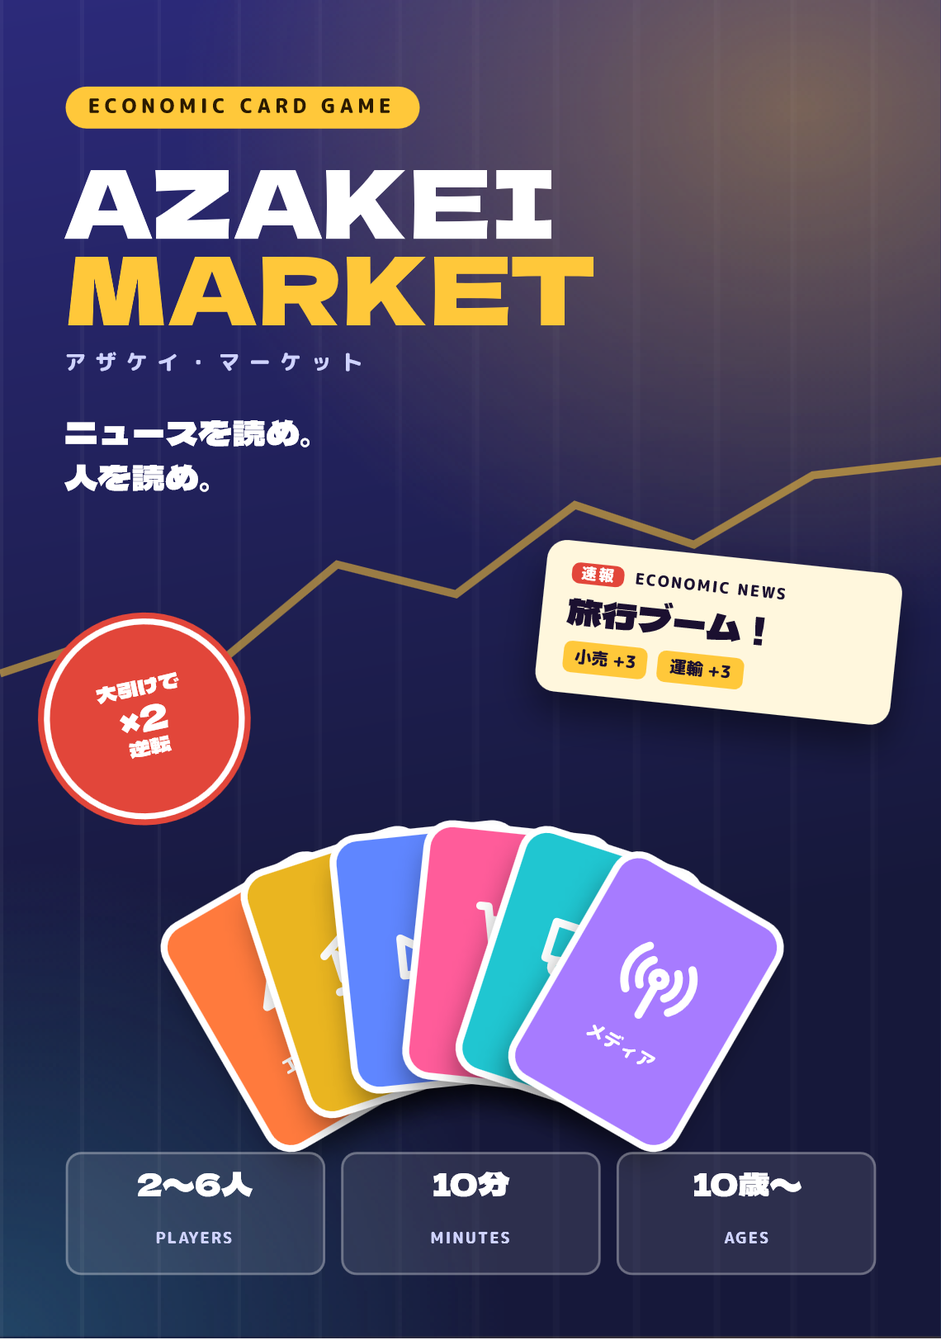
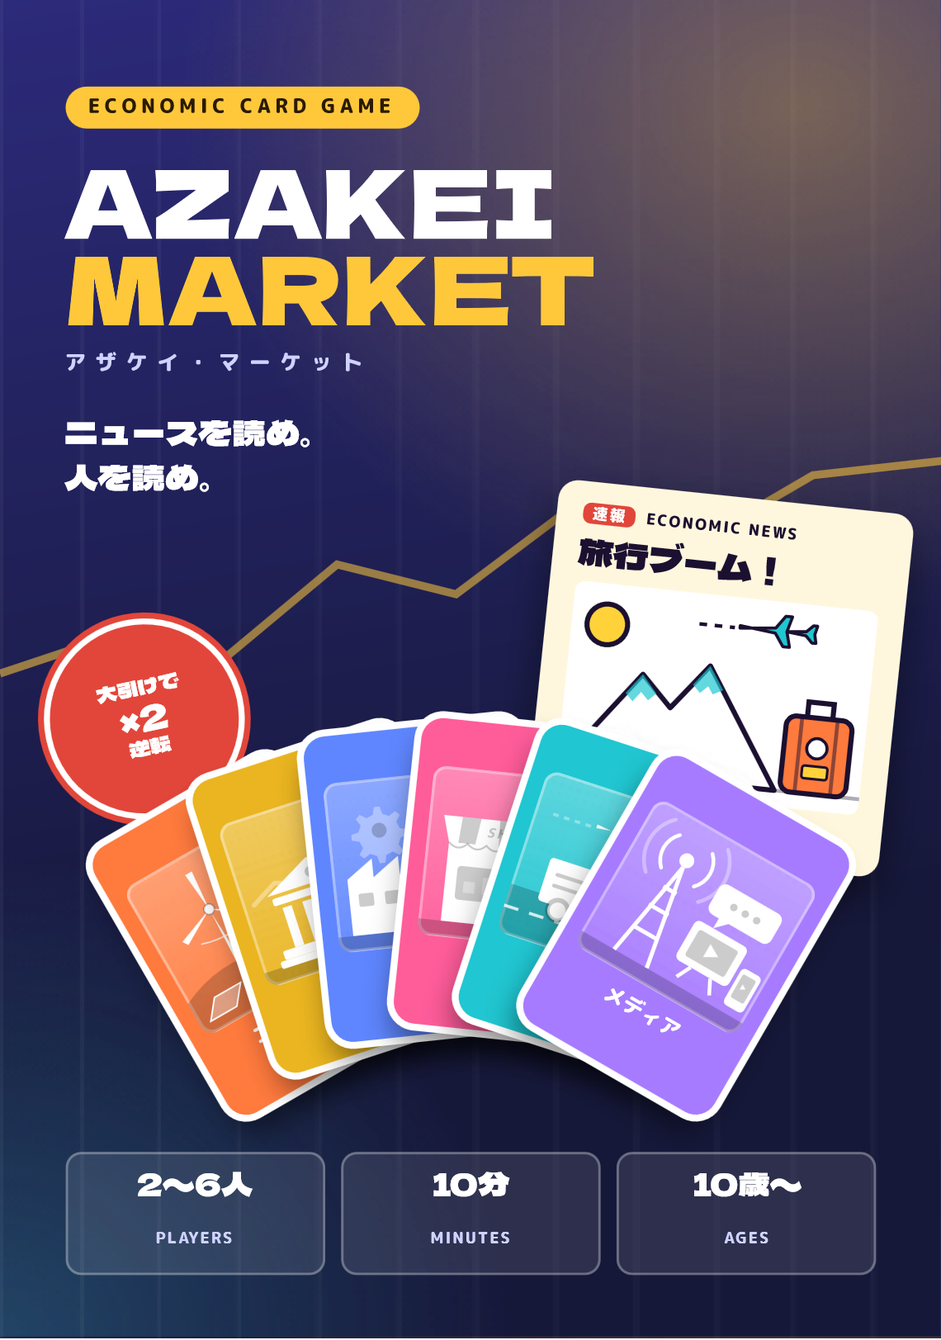
製品版の箱の表を新しい絵柄に（まちの絵のカード・旅行ブームの挿し絵）。紹介ページに「カードの絵」ギャラリー（タップで裏返る産業カード6枚・NEWSの挿し絵6枚）

Changed region(s): [[0.0921, 0.3389, 0.9825, 0.8626]]

diff --git a/about.html b/about.html
@@ -95,6 +95,38 @@ section.s{padding:56px 0}
 .prod .btn.ghost{color:var(--ink);border-color:var(--line);background:var(--tint)}
 @media (prefers-reduced-motion:reduce){.bx.spin,.stage .news{animation:none}}
 @media (max-width:760px){.stage{height:330px}.stage .news{width:180px;bottom:6px;right:-4px;padding:10px 12px}.stage .news b{font-size:19px}.box3d{--w:170px;--h:241px;--d:54px}.prod{grid-template-columns:1fr}.prod .shot{justify-content:center}.prod .shot img{width:42%}}
+/* カードの絵ギャラリー：産業カードはタップで裏返る。NEWSは新聞の写真 */
+.gal{display:grid;grid-template-columns:repeat(6,1fr);gap:12px;margin-top:16px}
+.fc{display:block;width:100%;perspective:900px;aspect-ratio:5/7;cursor:pointer;border:0;padding:0;background:none;font:inherit}
+.fc .in{display:block;position:relative;width:100%;height:100%;transform-style:preserve-3d;transition:transform .6s cubic-bezier(.3,1.3,.4,1)}
+.fc.on .in{transform:rotateY(180deg)}
+.fc .fa,.fc .ba{position:absolute;inset:0;border-radius:14px;backface-visibility:hidden;-webkit-backface-visibility:hidden;display:flex;flex-direction:column;align-items:center;overflow:hidden}
+.fc .fa{background:linear-gradient(165deg,var(--c),color-mix(in srgb,var(--c) 70%,#000));color:#fff;padding:10px 8px 8px;box-shadow:0 10px 22px -12px rgb(0 0 0 / .6),inset 0 0 0 2px rgb(255 255 255 / .35)}
+.fc .fa svg.scene{width:100%;height:auto;border-radius:10px;background:linear-gradient(180deg,rgb(255 255 255 / .26),rgb(255 255 255 / .05) 70%);box-shadow:inset 0 0 0 1.5px rgb(255 255 255 / .3)}
+.fc .fa b{margin-top:auto;font-family:var(--display);font-weight:400;font-size:clamp(14px,1.8vw,19px)}
+.fc .fa small{font-size:9px;font-weight:800;letter-spacing:.24em;opacity:.85}
+.fc .ba{transform:rotateY(180deg);background:#fffaf0;color:#1b1f4b;padding:12px 10px;text-align:left;box-shadow:inset 0 0 0 3px var(--c)}
+.fc .ba .k{font-size:10px;font-weight:800;letter-spacing:.1em;color:color-mix(in srgb,var(--c) 70%,#000)}
+.fc .ba b{font-family:var(--display);font-weight:400;font-size:16px;margin:2px 0 6px}
+.fc .ba ul{margin:0;padding:0;list-style:none;font-size:12px;font-weight:800;line-height:1.5;width:100%}
+.fc .ba li{padding:3px 6px;border-radius:7px;background:color-mix(in srgb,var(--c) 14%,#fff);margin-bottom:4px}
+.fc .ba p{margin:auto 0 0;font-size:11px;color:#6b6f8c;line-height:1.5}
+.ngal{display:grid;grid-template-columns:repeat(6,1fr);gap:12px;margin-top:14px}
+.ngal figure{margin:0;padding:5px 5px 4px;background:#fff;border-radius:6px;box-shadow:0 0 0 1px rgb(0 0 0 / .12),0 8px 18px -10px rgb(0 0 0 / .5);color:#1b1030;transform:rotate(var(--r))}
+.ngal svg.nart{display:block;width:100%;height:auto;background:linear-gradient(180deg,#f3f0e6,#fff);border-radius:3px}
+.ngal figcaption{font-size:12px;font-weight:800;text-align:center;padding-top:3px;color:#1b1030}
+.galnote{font-size:13px;color:var(--muted);margin:10px 0 0}
+.scene .sc-spin{animation:scSpin 7s linear infinite}.scene .sc-smoke{animation:scSmoke 3.6s ease-in-out infinite}.scene .sc-bob,.nart .sc-bob{animation:scBob 2.4s ease-in-out infinite}.nart .sc-bob2{animation:scBob 2.8s .5s ease-in-out infinite}
+.scene .sc-drive,.nart .sc-drive{animation:scDrive 3s ease-in-out infinite}.scene .sc-fly,.nart .sc-fly{animation:scFly 5s ease-in-out infinite}.scene .sc-wave,.scene .sc-pulse,.nart .sc-wave{animation:scWave 2.4s ease-out infinite}
+.scene .sc-twinkle,.nart .sc-twinkle{animation:scTw 2.6s ease-in-out infinite}.nart .sc-rise{animation:naRise 2.2s ease-in-out infinite}.nart .sc-swing{animation:naSwing 3s ease-in-out infinite}
+.nart .sc-float1{animation:naFloat 4s ease-in-out infinite}.nart .sc-float2{animation:naFloat 3.2s .6s ease-in-out infinite}.nart .sc-float3{animation:naFloat 3.6s 1.1s ease-in-out infinite}
+@keyframes scSpin{to{transform:rotate(360deg)}}@keyframes scSmoke{0%{transform:translate(0,4px);opacity:.3}50%{opacity:1}100%{transform:translate(4px,-4px);opacity:.25}}
+@keyframes scBob{50%{transform:translateY(-2.5px)}}@keyframes scDrive{0%,100%{transform:translateX(-2px)}50%{transform:translateX(3px)}}
+@keyframes scFly{0%,100%{transform:translate(-3px,1px)}50%{transform:translate(4px,-2px)}}@keyframes scWave{0%{transform:scale(.8);opacity:1}100%{transform:scale(1.12);opacity:.15}}
+@keyframes scTw{50%{opacity:.45;transform:translateY(-1.5px)}}@keyframes naRise{0%,100%{transform:translateY(2px)}50%{transform:translateY(-3px)}}
+@keyframes naSwing{0%,100%{transform:rotate(-6deg)}50%{transform:rotate(6deg)}}@keyframes naFloat{0%,100%{transform:translateY(0)}50%{transform:translateY(-4px)}}
+@media (max-width:760px){.fc .ba{padding:8px 6px}.fc .ba b{font-size:13px;margin:0 0 4px}.fc .ba ul{font-size:10px;line-height:1.35}.fc .ba li{padding:2px 4px}.fc .ba p{display:none}.fc .ba .k{font-size:9px}.gal{grid-template-columns:repeat(3,1fr)}.ngal{grid-template-columns:repeat(2,1fr)}}
+@media (prefers-reduced-motion:reduce){.scene *,.nart *{animation:none!important}.fc .in{transition:none}}
 details{border-bottom:1.5px solid var(--line);padding:14px 4px}summary{cursor:pointer;font-weight:800;color:var(--ink);font-size:16px}details p{margin:8px 0 0}
 .contact{padding:24px;border-radius:20px;background:var(--tint);text-align:center}
 footer{padding:28px 0 48px;text-align:center;color:var(--muted);font-size:13px}
@@ -139,6 +171,12 @@ footer{padding:28px 0 48px;text-align:center;color:var(--muted);font-size:13px}
     <div class="f" style="--c:#ee4a8a"><span class="ic">🤝</span><b>全員同時の読み合い</b>待ち時間ゼロ。「あえて外す」か「乗る」か。会話とかけひきが止まらない。</div>
     <div class="f" style="--c:#e2463a"><span class="ic">🔔</span><b>最後まで逆転がある</b>大引けサプライズで、最下位からの逆転は約18%。最後の1枚まで盛り上がる。</div>
   </div>
+  <h2 style="margin-top:40px;font-size:clamp(22px,3vw,30px)" id="cards">🎨 カードの絵</h2>
+  <p class="lead" style="margin:0">産業カードは、6つの「まちの風景」。<b>タップすると裏返って</b>、どのNEWSで +3 になるかが見られます。</p>
+  <div class="gal" id="gal"></div>
+  <p class="lead" style="margin:22px 0 0">NEWSには、新聞の写真のような挿し絵。今月のNEWSや歴史の出来事にも、ぜんぶ絵がつきます。</p>
+  <div class="ngal" id="ngal"></div>
+  <p class="galnote">アプリでも紙の体験版でも、同じ絵で遊べます。</p>
   <h2 style="margin-top:40px;font-size:clamp(22px,3vw,30px)">🃏 9人の投資家カード</h2>
   <p class="lead" style="margin:0">キャラクターの個性が、そのままずっと効く能力に。毎回ちがうカードで、何度遊んでも新しい。</p>
   <div class="inv" id="inv"></div>
@@ -197,6 +235,110 @@ const ICON=['<path d="M13 2 4 14h7l-1 8 9-12h-7z"/>','<path d="M3 9.5 12 4l9 5.5
 const IND=['エネルギー','金融','製造','小売','運輸','メディア'], COL=['#f26a2a','#d9a40e','#4a72f0','#ee4a8a','#13aab5','#8f62f0'];
 document.getElementById('fan').insertAdjacentHTML('beforeend', IND.map((n,i)=>`<div class="card" style="background:linear-gradient(160deg,${COL[i]},color-mix(in srgb,${COL[i]} 70%,#000));transform:rotate(${(i-2.5)*16}deg) translateX(${(i-2.5)*30}px) translateY(${Math.abs(i-2.5)*8}px);z-index:${i}"><svg viewBox="0 0 24 24" fill="none" stroke="#fff" stroke-width="2" stroke-linecap="round" stroke-linejoin="round">${ICON[i]}</svg>${n}</div>`).join(''));
 const P=[['🔥','全力投資','#ff7a3d'],['🌊','群衆の波','#3fd0a0'],['🌙','逆張り','#a77bff'],['🎀','推し活','#ff5c9a'],['📊','データ派','#5f86ff'],['⌛','老練の勘','#c9a46b'],['⚡','挑戦者','#eab520'],['📒','予習','#ff9ad9'],['☁','マイペース','#20c6d1']];
+/* ---- カードの絵「まちの絵」：6つの産業を小さな風景で。白と影だけで描くので、どの産業の色にもなじむ。少しだけ動く ---- */
+const SC_W='#fff', SC_S='rgb(0 0 0 / .2)', SC_L='rgb(255 255 255 / .35)';
+const SCENE=[
+  /* エネルギー：風車・太陽・送電線・ソーラー */
+  `<circle cx="78" cy="20" r="9" fill="${SC_W}" opacity=".95"/><g class="sc-pulse" style="transform-origin:78px 20px"><circle cx="78" cy="20" r="14" fill="none" stroke="${SC_W}" stroke-width="1.2" opacity=".5"/></g>
+   <path d="M0 70 Q25 58 50 66 T100 62 V90 H0z" fill="${SC_S}"/>
+   <path d="M64 78 L70 40 L76 78 M66 64 H74 M67 54 H73 M58 44 H82" stroke="${SC_W}" stroke-width="1.6" fill="none" stroke-linejoin="round"/>
+   <path d="M58 44 Q40 52 22 46 M82 44 Q92 50 100 48" stroke="${SC_W}" stroke-width=".8" fill="none" opacity=".7"/>
+   <path d="M33 80 L35 34 L37 80z" fill="${SC_W}"/>
+   <g class="sc-spin" style="transform-origin:35px 32px"><path d="M35 32 L33 10 L37 10z M35 32 L54 42 L52 45z M35 32 L16 43 L14 40z" fill="${SC_W}"/></g><circle cx="35" cy="32" r="2.8" fill="${SC_W}" stroke="${SC_S}" stroke-width="1"/>
+   <path d="M6 84 L14 74 H30 L22 84z M44 84 L50 76 H60 L54 84z" fill="${SC_L}" stroke="${SC_W}" stroke-width=".8"/>`,
+  /* 金融：銀行・コイン・右肩上がりのグラフ */
+  `<path d="M6 46 L20 38 L32 42 L46 26 L60 32 L76 14 L94 10" stroke="${SC_L}" stroke-width="2.4" fill="none" stroke-linecap="round" stroke-linejoin="round"/><path d="M88 7 L95 9.5 L90 15" stroke="${SC_L}" stroke-width="2.4" fill="none" stroke-linecap="round"/>
+   <path d="M0 82 H100 V90 H0z" fill="${SC_S}"/>
+   <path d="M14 44 L40 30 L66 44z" fill="${SC_W}"/><rect x="16" y="46" width="48" height="4" rx="1" fill="${SC_W}"/>
+   <g fill="${SC_W}"><rect x="20" y="52" width="5" height="22"/><rect x="31" y="52" width="5" height="22"/><rect x="44" y="52" width="5" height="22"/><rect x="55" y="52" width="5" height="22"/></g>
+   <rect x="13" y="74" width="54" height="5" rx="1" fill="${SC_W}"/><rect x="10" y="79" width="60" height="4" rx="1" fill="${SC_W}"/>
+   <circle cx="40" cy="38" r="3" fill="${SC_S}"/>
+   <g class="sc-bob"><ellipse cx="84" cy="80" rx="10" ry="3.2" fill="${SC_W}" stroke="${SC_S}" stroke-width=".8"/><ellipse cx="84" cy="75" rx="10" ry="3.2" fill="${SC_W}" stroke="${SC_S}" stroke-width=".8"/><ellipse cx="84" cy="70" rx="10" ry="3.2" fill="${SC_W}" stroke="${SC_S}" stroke-width=".8"/><text x="84" y="72" text-anchor="middle" font-size="5" font-weight="800" fill="${SC_S}">¥</text></g>
+   <g class="sc-twinkle"><path d="M80 52 l1.5 4 4 1.5 -4 1.5 -1.5 4 -1.5 -4 -4 -1.5 4 -1.5z" fill="${SC_W}"/></g>`,
+  /* 製造：工場・煙・歯車 */
+  `<g class="sc-smoke"><circle cx="72" cy="22" r="5" fill="${SC_L}"/><circle cx="78" cy="14" r="6.5" fill="${SC_L}"/><circle cx="86" cy="7" r="7.5" fill="${SC_L}"/></g>
+   <path d="M0 82 H100 V90 H0z" fill="${SC_S}"/>
+   <rect x="64" y="26" width="9" height="36" fill="${SC_W}"/><rect x="64" y="30" width="9" height="3" fill="${SC_S}"/>
+   <path d="M8 82 V52 L22 42 V52 L36 42 V52 L50 42 V52 L64 44 V82z" fill="${SC_W}"/>
+   <g fill="${SC_S}"><rect x="13" y="60" width="8" height="7" rx="1"/><rect x="27" y="60" width="8" height="7" rx="1"/><rect x="41" y="60" width="8" height="7" rx="1"/><rect x="52" y="70" width="8" height="12"/></g>
+   <rect x="64" y="58" width="30" height="24" fill="${SC_W}"/><rect x="69" y="64" width="20" height="5" rx="1" fill="${SC_S}"/>
+   <g class="sc-spin" style="transform-origin:26px 26px"><path d="M26 15 l3 0 1 4 3.5 1.5 3.5-2.2 2.2 2.2-2.2 3.5 1.5 3.5 4 1 0 3-4 1-1.5 3.5 2.2 3.5-2.2 2.2-3.5-2.2-3.5 1.5-1 4-3 0-1-4-3.5-1.5-3.5 2.2-2.2-2.2 2.2-3.5-1.5-3.5-4-1 0-3 4-1 1.5-3.5-2.2-3.5 2.2-2.2 3.5 2.2 3.5-1.5z" fill="${SC_L}"/><circle cx="27.5" cy="27.5" r="4" fill="${SC_S}"/></g>`,
+  /* 小売：お店・しましまの屋根・買い物ぶくろ */
+  `<path d="M0 82 H100 V90 H0z" fill="${SC_S}"/>
+   <rect x="12" y="38" width="62" height="44" fill="${SC_W}"/>
+   <path d="M8 26 H78 L74 40 H12z" fill="${SC_W}"/>
+   <g fill="${SC_S}"><path d="M18 26 H28 L26 40 H17z"/><path d="M38 26 H48 L47.5 40 H38.5z"/><path d="M58 26 H68 L69 40 H60z"/></g>
+   <path d="M12 40 q5 5 10 0 q5 5 10 0 q5 5 10 0 q5 5 10 0 q5 5 10 0 q5 5 12 0" fill="${SC_W}" stroke="${SC_S}" stroke-width="1"/>
+   <rect x="18" y="52" width="26" height="18" rx="2" fill="${SC_S}"/><path d="M22 66 h6 v-6 h-6z M32 66 h7 v-9 h-7z" fill="${SC_L}"/>
+   <rect x="52" y="52" width="16" height="30" rx="2" fill="${SC_S}"/><circle cx="64" cy="68" r="1.4" fill="${SC_W}"/>
+   <g class="sc-bob"><path d="M80 58 h16 l-2 24 h-12z" fill="${SC_W}" stroke="${SC_S}" stroke-width="1"/><path d="M84 58 v-3 a4 4 0 0 1 8 0 v3" stroke="${SC_W}" stroke-width="1.8" fill="none"/><path d="M88 74 l-3.2-3.2 a2 2 0 0 1 3.2-2.4 a2 2 0 0 1 3.2 2.4z" fill="${SC_S}"/></g>
+   <text x="43" y="35.5" text-anchor="middle" font-size="7" font-weight="800" fill="${SC_S}" letter-spacing="1">SHOP</text>`,
+  /* 運輸：道路・トラック・飛行機 */
+  `<g class="sc-fly"><path d="M10 22 h22" stroke="${SC_L}" stroke-width="1.6" stroke-dasharray="3 3"/><path d="M34 22 l16-2 4-6 3 0-2 7 9 -1 3-3 2 0-1 4 1 4-2 0-3-3-9-1 2 7-3 0-4-6-16-2z" fill="${SC_W}"/></g>
+   <path d="M0 64 H100 V90 H0z" fill="${SC_S}"/><path d="M0 76 H100" stroke="${SC_W}" stroke-width="1.6" stroke-dasharray="8 6" opacity=".8"/>
+   <g class="sc-drive"><rect x="16" y="44" width="42" height="24" rx="2" fill="${SC_W}"/><path d="M58 52 h14 l8 9 v7 h-22z" fill="${SC_W}"/><path d="M61 54 h9 l5 6 h-14z" fill="${SC_S}"/>
+     <circle cx="28" cy="70" r="5.5" fill="${SC_W}" stroke="${SC_S}" stroke-width="2.5"/><circle cx="68" cy="70" r="5.5" fill="${SC_W}" stroke="${SC_S}" stroke-width="2.5"/>
+     <path d="M22 52 h28 M22 58 h20" stroke="${SC_S}" stroke-width="2" stroke-linecap="round"/></g>
+   <rect x="86" y="44" width="3" height="20" fill="${SC_W}"/><rect x="82" y="38" width="11" height="8" rx="1.5" fill="${SC_W}"/>`,
+  /* メディア：電波塔・テレビ・スマホ・ふきだし */
+  `<g class="sc-wave" style="transform-origin:30px 22px"><path d="M20 12 a14 14 0 0 0 0 20 M40 12 a14 14 0 0 1 0 20" stroke="${SC_W}" stroke-width="2" fill="none" stroke-linecap="round"/><path d="M14 6 a22 22 0 0 0 0 32 M46 6 a22 22 0 0 1 0 32" stroke="${SC_L}" stroke-width="2" fill="none" stroke-linecap="round"/></g>
+   <circle cx="30" cy="22" r="4" fill="${SC_W}"/>
+   <path d="M30 26 L20 82 M30 26 L40 82 M24 52 H36 M22 66 H38 M26 40 H34" stroke="${SC_W}" stroke-width="2.2" fill="none" stroke-linejoin="round"/>
+   <path d="M0 82 H100 V90 H0z" fill="${SC_S}"/>
+   <rect x="50" y="46" width="32" height="24" rx="3" fill="${SC_W}"/><rect x="54" y="50" width="24" height="16" rx="1.5" fill="${SC_S}"/><path d="M63 54 l7 4 -7 4z" fill="${SC_W}"/><path d="M60 70 l-4 8 M72 70 l4 8" stroke="${SC_W}" stroke-width="2"/>
+   <g class="sc-bob"><rect x="84" y="56" width="12" height="22" rx="2.5" fill="${SC_W}"/><rect x="86" y="59" width="8" height="14" rx="1" fill="${SC_S}"/><path d="M88.5 64 l2.6 1.6 -2.6 1.6z" fill="${SC_W}"/></g>
+   <g class="sc-twinkle"><path d="M56 22 h30 a4 4 0 0 1 4 4 v10 a4 4 0 0 1 -4 4 h-20 l-6 6 v-6 h-4 a4 4 0 0 1 -4 -4 v-10 a4 4 0 0 1 4 -4z" fill="${SC_W}"/><circle cx="64" cy="31" r="2" fill="${SC_S}"/><circle cx="71" cy="31" r="2" fill="${SC_S}"/><circle cx="78" cy="31" r="2" fill="${SC_S}"/></g>`
+];
+const scene = i => `<svg class="scene" viewBox="0 0 100 90" aria-hidden="true">${SCENE[i]}</svg>`;
+/* ---- NEWSの「写真」：新聞にのる挿し絵。線は紙のインク色（currentColor）、ところどころに産業の色。少しだけ動く ---- */
+const NEWS_ART=[
+  /* エネルギー価格急騰：ドラム缶・給油機・急上昇の矢印 */
+  `<path d="M0 72 H120" stroke="currentColor" stroke-width="1.5" opacity=".35"/>
+   <g><rect x="12" y="38" width="26" height="34" rx="3" fill="var(--i0)" stroke="currentColor" stroke-width="2"/><path d="M12 48 H38 M12 62 H38" stroke="currentColor" stroke-width="2"/><ellipse cx="25" cy="38" rx="13" ry="3" fill="var(--i0)" stroke="currentColor" stroke-width="2"/><path d="M25 50 c-4 5 -3 9 0 9 c3 0 4 -4 0 -9z" fill="#fff" stroke="currentColor" stroke-width="1.2"/></g>
+   <g><rect x="46" y="30" width="22" height="42" rx="3" fill="#fff" stroke="currentColor" stroke-width="2"/><rect x="50" y="35" width="14" height="10" rx="1.5" fill="currentColor" opacity=".85"/><text x="57" y="43" text-anchor="middle" font-size="7" font-weight="900" fill="#ffd23a">¥</text><path d="M68 40 h5 v20 a3 3 0 0 0 6 0 v-14" stroke="currentColor" stroke-width="2" fill="none"/><rect x="76" y="40" width="6" height="8" rx="1" fill="currentColor"/></g>
+   <g class="sc-rise"><path d="M86 66 L98 50 L104 56 L114 30" stroke="#e2463a" stroke-width="4" fill="none" stroke-linecap="round" stroke-linejoin="round"/><path d="M106 28 L116 26 L115 36" stroke="#e2463a" stroke-width="4" fill="none" stroke-linecap="round" stroke-linejoin="round"/></g>
+   <g class="sc-twinkle"><path d="M92 14 l2 5 5 2 -5 2 -2 5 -2 -5 -5 -2 5 -2z" fill="#ffd23a" stroke="currentColor" stroke-width="1"/></g>`,
+  /* 資産バブル：家・株・コインがシャボン玉でふわふわ */
+  `<path d="M0 74 H120" stroke="currentColor" stroke-width="1.5" opacity=".35"/>
+   <g class="sc-float1"><circle cx="34" cy="44" r="22" fill="rgb(255 255 255 / .55)" stroke="currentColor" stroke-width="2"/><path d="M22 34 a14 14 0 0 1 10 -7" stroke="#fff" stroke-width="3" stroke-linecap="round" fill="none"/><path d="M24 54 V44 L34 36 L44 44 V54z" fill="var(--i1)" stroke="currentColor" stroke-width="2" stroke-linejoin="round"/><rect x="31" y="46" width="6" height="8" fill="#fff" stroke="currentColor" stroke-width="1.5"/></g>
+   <g class="sc-float2"><circle cx="78" cy="30" r="18" fill="rgb(255 255 255 / .55)" stroke="currentColor" stroke-width="2"/><path d="M68 22 a11 11 0 0 1 8 -5" stroke="#fff" stroke-width="3" stroke-linecap="round" fill="none"/><path d="M66 38 L72 32 L77 35 L86 24" stroke="var(--i5)" stroke-width="3" fill="none" stroke-linecap="round" stroke-linejoin="round"/><path d="M82 23 h5 v5" stroke="var(--i5)" stroke-width="3" fill="none" stroke-linecap="round"/></g>
+   <g class="sc-float3"><circle cx="104" cy="56" r="12" fill="rgb(255 255 255 / .55)" stroke="currentColor" stroke-width="2"/><circle cx="104" cy="56" r="6" fill="#ffd23a" stroke="currentColor" stroke-width="1.5"/><text x="104" y="59" text-anchor="middle" font-size="7" font-weight="900" fill="currentColor">¥</text></g>
+   <circle cx="60" cy="62" r="4" fill="none" stroke="currentColor" stroke-width="1.5" class="sc-float2"/><circle cx="96" cy="10" r="3" fill="none" stroke="currentColor" stroke-width="1.5" class="sc-float1"/>`,
+  /* インフラ投資ブーム：クレーン・橋・コーン */
+  `<path d="M0 74 H120" stroke="currentColor" stroke-width="1.5" opacity=".35"/>
+   <path d="M4 74 Q34 30 64 74" fill="none" stroke="currentColor" stroke-width="3"/><path d="M14 48 V62 M24 48 V54.4 M34 48 V52 M44 48 V54.4 M54 48 V62" stroke="currentColor" stroke-width="2"/><path d="M0 48 H68" stroke="currentColor" stroke-width="3.4"/><rect x="40" y="43" width="12" height="5" rx="1.5" fill="var(--i4)" stroke="currentColor" stroke-width="1.2" class="sc-drive"/>
+   <path d="M84 74 V14 M78 74 V14 M78 14 H84 M78 24 L84 20 M78 34 L84 30 M78 44 L84 40 M78 54 L84 50 M78 64 L84 60" stroke="var(--i1)" stroke-width="2.4" fill="none"/>
+   <path d="M70 14 H116 M70 14 L81 6 L116 14" stroke="currentColor" stroke-width="2.4" fill="none" stroke-linejoin="round"/><rect x="66" y="12" width="8" height="8" fill="currentColor"/>
+   <g class="sc-swing" style="transform-origin:108px 14px"><path d="M108 14 V34" stroke="currentColor" stroke-width="1.5"/><path d="M104 34 h8 l-4 4z" fill="currentColor"/><rect x="96" y="38" width="24" height="5" fill="var(--i2)" stroke="currentColor" stroke-width="1.5"/></g>
+   <g fill="#ff8a2a" stroke="currentColor" stroke-width="1.5"><path d="M96 74 l4 -12 h2 l4 12z"/><path d="M110 74 l4 -12 h2 l4 12z"/></g><path d="M98 68 h6 M112 68 h6" stroke="#fff" stroke-width="1.8"/>`,
+  /* 消費ブーム：買い物ぶくろ・SALEの旗・カート */
+  `<path d="M0 74 H120" stroke="currentColor" stroke-width="1.5" opacity=".35"/>
+   <g class="sc-swing" style="transform-origin:60px 6px"><path d="M30 6 H90 V22 L60 28 L30 22z" fill="#e2463a" stroke="currentColor" stroke-width="2" stroke-linejoin="round"/><text x="60" y="20" text-anchor="middle" font-size="11" font-weight="900" fill="#fff" letter-spacing="2">SALE</text></g>
+   <g class="sc-bob"><path d="M14 42 h24 l-3 32 h-18z" fill="var(--i3)" stroke="currentColor" stroke-width="2" stroke-linejoin="round"/><path d="M20 42 v-5 a6 6 0 0 1 12 0 v5" stroke="currentColor" stroke-width="2" fill="none"/><path d="M26 62 l-4 -4 a2.5 2.5 0 0 1 4 -3 a2.5 2.5 0 0 1 4 3z" fill="#fff"/></g>
+   <g class="sc-bob2"><path d="M40 50 h18 l-2 24 h-14z" fill="var(--i1)" stroke="currentColor" stroke-width="2" stroke-linejoin="round"/><path d="M45 50 v-4 a4 4 0 0 1 8 0 v4" stroke="currentColor" stroke-width="2" fill="none"/></g>
+   <g class="sc-drive"><path d="M66 40 h6 l5 24 h28 l5 -18 h-36" stroke="currentColor" stroke-width="2.4" fill="none" stroke-linejoin="round"/><rect x="80" y="36" width="10" height="10" fill="var(--i4)" stroke="currentColor" stroke-width="1.5"/><rect x="92" y="32" width="12" height="14" fill="var(--i5)" stroke="currentColor" stroke-width="1.5"/><circle cx="82" cy="70" r="3.5" fill="#fff" stroke="currentColor" stroke-width="2"/><circle cx="102" cy="70" r="3.5" fill="#fff" stroke="currentColor" stroke-width="2"/></g>
+   <g class="sc-twinkle"><path d="M112 22 l1.5 4 4 1.5 -4 1.5 -1.5 4 -1.5 -4 -4 -1.5 4 -1.5z M8 20 l1.2 3 3 1.2 -3 1.2 -1.2 3 -1.2 -3 -3 -1.2 3 -1.2z" fill="#ffd23a" stroke="currentColor" stroke-width=".8"/></g>`,
+  /* 旅行ブーム：山と太陽・飛行機・スーツケース */
+  `<circle cx="14" cy="16" r="8" fill="#ffd23a" stroke="currentColor" stroke-width="2"/>
+   <path d="M0 74 L30 34 L42 46 L56 28 L86 74z" fill="#fff" stroke="currentColor" stroke-width="2" stroke-linejoin="round"/><path d="M24 42 L30 34 L36 41 L33 44 L30 41 L27 45z M50 36 L56 28 L62 37 L58 39 L56 36 L53 39z" fill="var(--i4)" opacity=".7"/>
+   <path d="M0 74 H120" stroke="currentColor" stroke-width="1.5" opacity=".35"/>
+   <g class="sc-fly"><path d="M50 12 h14" stroke="currentColor" stroke-width="1.4" stroke-dasharray="3 3"/><path d="M66 12 l14 -1.5 3.5 -5 2.6 0 -1.6 6 7.6 -0.8 2.6 -2.6 1.6 0 -0.8 3.4 0.8 3.4 -1.6 0 -2.6 -2.6 -7.6 -0.8 1.6 6 -2.6 0 -3.5 -5 -14 -1.5z" fill="var(--i4)" stroke="currentColor" stroke-width="1.2" stroke-linejoin="round"/></g>
+   <g class="sc-bob"><rect x="88" y="44" width="26" height="30" rx="4" fill="var(--i0)" stroke="currentColor" stroke-width="2"/><path d="M96 44 v-6 h10 v6" stroke="currentColor" stroke-width="2" fill="none"/><path d="M94 44 V74 M108 44 V74" stroke="currentColor" stroke-width="1.5" opacity=".5"/><circle cx="101" cy="56" r="4" fill="#fff" stroke="currentColor" stroke-width="1.2"/><rect x="96" y="63" width="10" height="5" rx="1" fill="#ffd23a" stroke="currentColor" stroke-width="1"/></g>`,
+  /* デジタル化加速：ノートPC・クラウド・電波・スピード線 */
+  `<path d="M0 74 H120" stroke="currentColor" stroke-width="1.5" opacity=".35"/>
+   <path d="M4 40 H22 M8 48 H24 M2 56 H20" stroke="currentColor" stroke-width="2" stroke-linecap="round" opacity=".5" class="sc-drive"/>
+   <rect x="30" y="30" width="48" height="32" rx="3" fill="#fff" stroke="currentColor" stroke-width="2"/><rect x="34" y="34" width="40" height="24" rx="1.5" fill="var(--i5)" opacity=".85"/><path d="M24 62 H84 L80 70 H28z" fill="#fff" stroke="currentColor" stroke-width="2" stroke-linejoin="round"/>
+   <path d="M40 52 L48 44 L54 48 L66 38" stroke="#fff" stroke-width="2.5" fill="none" stroke-linecap="round" stroke-linejoin="round"/>
+   <g class="sc-bob"><path d="M88 34 a8 8 0 0 1 2 -15.5 a11 11 0 0 1 21 3 a7 7 0 0 1 -1 13.5z" fill="#fff" stroke="currentColor" stroke-width="2" stroke-linejoin="round"/><path d="M100 30 V22 M96 25 L100 21 L104 25" stroke="var(--i2)" stroke-width="2.2" fill="none" stroke-linecap="round" stroke-linejoin="round"/></g>
+   <g class="sc-wave" style="transform-origin:102px 66px"><path d="M94 58 a11 11 0 0 1 16 0 M97 62 a6 6 0 0 1 10 0" stroke="currentColor" stroke-width="2" fill="none" stroke-linecap="round"/></g><circle cx="102" cy="66" r="2" fill="currentColor"/>`
+];
+const newsArt = n => NEWS_ART[n] ? `<svg class="nart" viewBox="0 0 120 80" aria-hidden="true">${NEWS_ART[n]}</svg>` : '';
+
+const NEWS=['エネルギー価格急騰','資産バブル','インフラ投資ブーム','消費ブーム','旅行ブーム','デジタル化加速'], EN=['ENERGY','FINANCE','MAKER','RETAIL','TRANSPORT','MEDIA'];
+const T=[[3,3,-2,-1,-3,0],[0,3,1,1,0,3],[3,0,2,0,3,-1],[0,1,3,3,2,1],[1,0,-1,3,3,1],[-1,0,3,1,0,3]];
+const TIP=['石油や電気の値段しだい。上がるときは大きい','景気がいいと、銀行や証券がもうかる','つくれば売れる時代に強い','人が買い物や旅に出ると強い','人とモノが動くほどもうかる','広告とデジタルの時代に強い'];
+document.getElementById('gal').innerHTML=IND.map((n,c)=>`<button class="fc" style="--c:${COL[c]}" aria-label="${n}のカード（タップで裏返す）" onclick="this.classList.toggle('on')"><span class="in"><span class="fa">${scene(c)}<b>${n}</b><small>${EN[c]}</small></span><span class="ba"><span class="k">+3 になるNEWS</span><b>${n}</b><ul>${NEWS.filter((x,i)=>T[i][c]===3).map(x=>`<li>${x}</li>`).join('')}</ul><p>${TIP[c]}</p></span></span></button>`).join('');
+document.getElementById('ngal').innerHTML=NEWS.map((n,i)=>`<figure style="--r:${[-1.5,1.2,-.6,1.6,-1.2,.8][i]}deg">${newsArt(i)}<figcaption>${n}</figcaption></figure>`).join('');
 /* 箱：ドラッグで回す。ボタンで表・横・裏 */
 const BX=document.getElementById('bx'), BOX=document.getElementById('box3d'); let ry=-28, rx=-8, drag=null;
 const bxSet=()=>{ BX.style.setProperty('--ry',ry+'deg'); BX.style.setProperty('--rx',rx+'deg'); };
